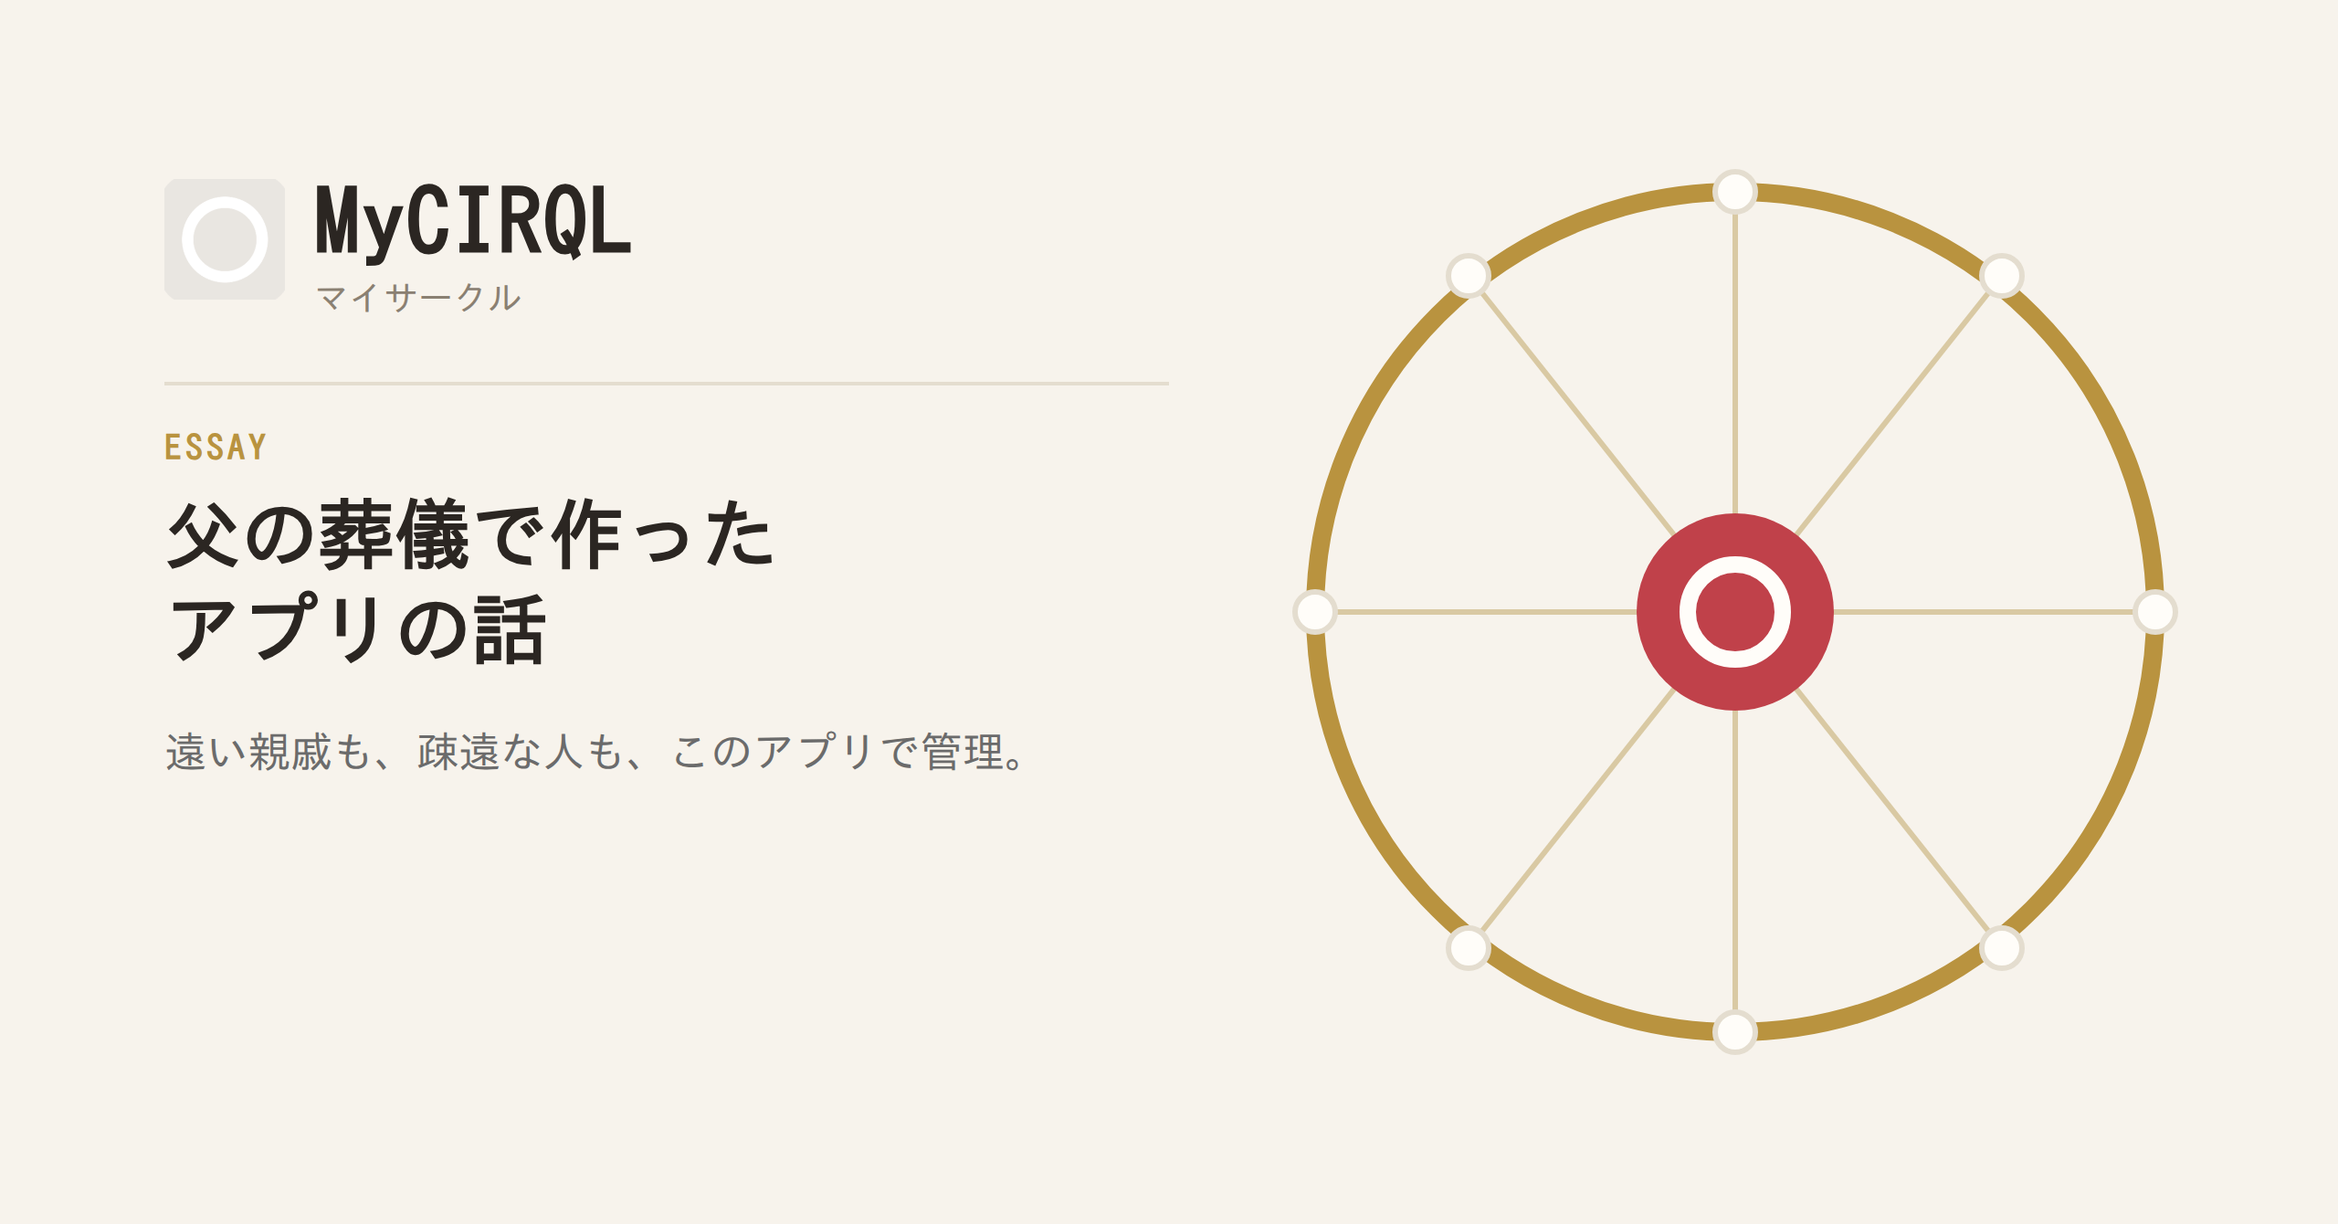
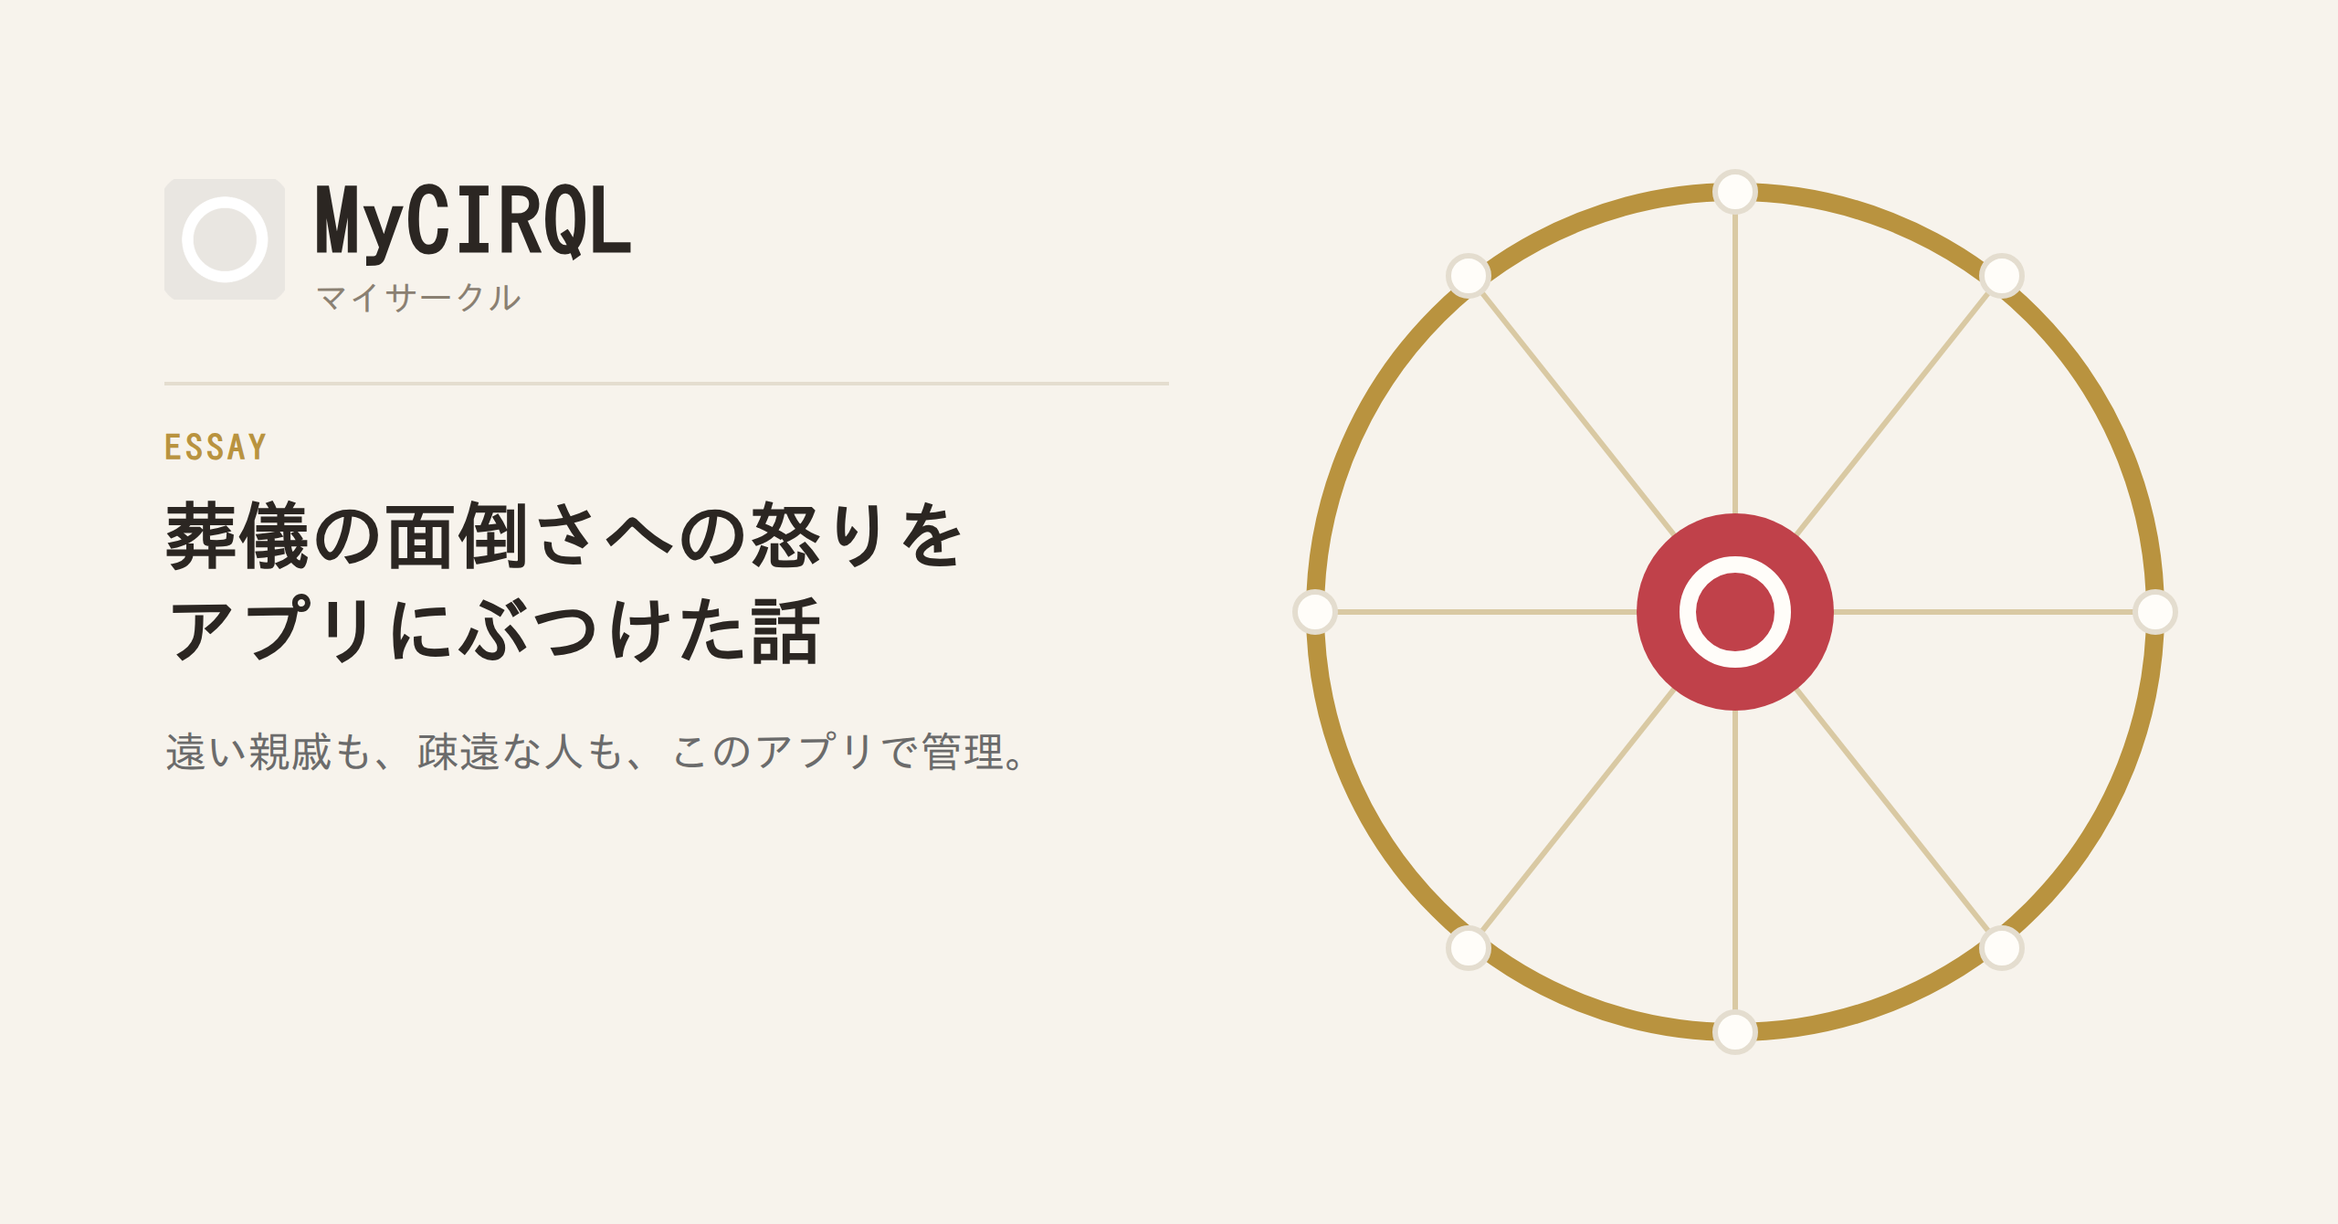
noteアイキャッチ画像のタイトルテキストを新しいタイトルに合わせて更新

Changed region(s): [[0.0625, 0.3978, 0.4062, 0.5507]]

diff --git a/note/02_本文ドラフト.md b/note/02_本文ドラフト.md
@@ -9,7 +9,7 @@
 
 ## タイトル
 
-顔は知られているのに、私は誰なのか分からなかった。父の葬儀で作ったアプリの話
+葬儀の面倒さからくる怒りをアプリ開発にぶつけてみました。
 
 ---
 
@@ -17,62 +17,45 @@
 
 去年、父が亡くなりました。80歳になる少し手前でした。
 
-葬儀には、父のいとこや兄弟が来てくれました。年代が年代なので、当然のことです。
-私は父にそっくりらしく、誰が見ても「この人は息子だ」とわかるようです。
-実際、来てくれた方々にとって、私が誰なのかは一目瞭然だったと思います。
+葬儀は、悲しいです。それはそう。でも同時に、地味にイライラすることの連続でもありました。今日はその怒りを、開発したアプリにぶつけた話をします。
 
-でも、こちらからは違いました。
-**目の前にいるこの人が、いったい誰なのか。私にはわかりませんでした。**
+父のいとこや兄弟が、たくさん来てくれました。年代が年代なので当然です。私は父にそっくりらしく、誰が見ても「ああ、息子だな」とわかるらしいんです。向こうは私を一瞬で認識する。こっちは誰が誰だか、1ミリもわかりません。
 
-親族なのか、友人なのか。親族だとして、いとこなのか、もっと遠い人なのか。
-どういう関係の人なのか、見当がつかないまま挨拶をするので、
-当たり障りのない会話にしかなりません。
+**この非対称、地味に腹が立ちませんか。**
+
+親族なのか、友人なのか。親族だとして、いとこなのか、もっと遠い人なのか。全員「モブキャラ」に見える状態のまま、当たり障りのない愛想笑いを続けるしかありませんでした。
 
 ![図1：「わからない」の4分類](img/fig1.png)
 *（note にアップロード：`note/img/fig1.png`）*
 
 ---
 
-## 「どこどこのおばちゃん」問題
+## 「どこどこのおばちゃん」、本名は？
 
-田舎あるあるだと思うのですが、うちの親戚には**地域名で呼ばれている人**が結構いました。
+田舎あるあるで、うちの親戚には**地域名で呼ばれている人**が普通にいました。「横浜のおばちゃん」「どこどこのおじちゃん」。おい、本名は。「林田兄ちゃん」みたいに苗字が付いていればまだ照合できるんですが、地域名＋続柄だけで通っている人になると、もう手がかりがゼロです。
 
-「横浜のおばちゃん」「どこどこのおじちゃん」。
-「林田兄ちゃん」のように苗字がついていればまだ照合できるのですが、
-地域名＋続柄だけで通っている人になると、もう手がかりがありません。
-
-一段落したあとに、いとこの中でも親しい人間と話していて気づいたのが、
-自分がわからなかった「わからなさ」には、実は**4種類ある**ということでした。
+一段落したあとに、いとこの中でも親しい人間とこの怒りを分かち合っていたら、自分がわからなかった「わからなさ」には実は**4種類ある**ことに気づきました。
 
 1. そもそも名前を知らない
 2. 顔は知っているが、名前を知らない
 3. 名前は知っているが、顔と一致しない
 4. 名前も顔も知っているが、**どういう血縁関係かわからない**
 
-連絡先アプリのメモ欄に手入力すれば、書けなくはありません。
-でも、続柄や「誰の何なのか」を一人ひとり書き起こしていくのは、正直かなり面倒です。
-書く場所がないのではなく、書くのが面倒だから、結局書かないままになるんだと思います。
+連絡先アプリのメモ欄に手入力すれば、書けなくはありません。でも、続柄や「誰の何なのか」を一人ひとり書き起こしていくのは、正直かなり面倒です。書く場所がないのではなく、書くのが面倒だから、結局書かないままになるんだと思います。
 
 ---
 
-## 香典返しのリストで、完全に詰まった
+## とどめは、香典返しの住所リスト
 
-葬儀が終わってひと段落したころ、**香典返しの住所リスト**を葬儀屋に渡す必要が出てきます。
-香典をいただいた以上、当然お返しをしないといけません。
+葬儀が終わってひと段落したころ、**香典返しの住所リスト**を葬儀屋に渡せと言われます。香典をいただいた以上、お返しをするのは当然です。正論です。正論なんですが。
 
-ここで、さっきの「わからなさ」が全部そのまま返ってきました。
-名前が出てこない人、顔と名前が一致しない人、血縁関係がわからない人。
-そのままではリストが作れません。
+さっきの「わからなさ」が、全部ここに集約して襲ってきました。名前が出てこない人、顔と名前が一致しない人、血縁関係がわからない人。そのままではリストなんて作れません。
 
-結局そのときは、いとこの中でも親しい人間と一緒に、**手書きで家系図を作って整理**しました。
-一段落つくころには、なんとか間に合わせることができました。
+このときの気持ちを正直に言うと、**悲しみより先に「なんでこんな仕組みになってるんだ」という怒りのほうが勝っていました。**結局そのときは、いとこの中でも親しい人間と一緒に、手書きで家系図を作って何とか間に合わせました。
 
-でも、これは一度きりでは終わらない話です。
-また誰かの葬儀があれば、同じことが起きます。
-四十九日、一周忌、三回忌と、法事はこの先も続きます。
-**その都度、記憶とみんなの手書きに頼るのは、さすがに無理があるな**と思いました。
+でも、これで終わる話じゃありません。四十九日、一周忌、三回忌と、法事はこの先も続きます。その都度この怒りを再演するのは、さすがに勘弁してほしい。
 
-これが、このアプリを作ろうと思ったきっかけです。
+だから、アプリにして解決することにしました。
 
 ---
 

diff --git a/note/03_下書き用_コピペ本文.md b/note/03_下書き用_コピペ本文.md
@@ -1,58 +1,41 @@
-顔は知られているのに、私は誰なのか分からなかった。父の葬儀で作ったアプリの話
+葬儀の面倒さからくる怒りをアプリ開発にぶつけてみました。
 
 去年、父が亡くなりました。80歳になる少し手前でした。
 
-葬儀には、父のいとこや兄弟が来てくれました。年代が年代なので、当然のことです。
-私は父にそっくりらしく、誰が見ても「この人は息子だ」とわかるようです。
-実際、来てくれた方々にとって、私が誰なのかは一目瞭然だったと思います。
+葬儀は、悲しいです。それはそう。でも同時に、地味にイライラすることの連続でもありました。今日はその怒りを、開発したアプリにぶつけた話をします。
 
-でも、こちらからは違いました。
-**目の前にいるこの人が、いったい誰なのか。私にはわかりませんでした。**
+父のいとこや兄弟が、たくさん来てくれました。年代が年代なので当然です。私は父にそっくりらしく、誰が見ても「ああ、息子だな」とわかるらしいんです。向こうは私を一瞬で認識する。こっちは誰が誰だか、1ミリもわかりません。
 
-親族なのか、友人なのか。親族だとして、いとこなのか、もっと遠い人なのか。
-どういう関係の人なのか、見当がつかないまま挨拶をするので、
-当たり障りのない会話にしかなりません。
+**この非対称、地味に腹が立ちませんか。**
+
+親族なのか、友人なのか。親族だとして、いとこなのか、もっと遠い人なのか。全員「モブキャラ」に見える状態のまま、当たり障りのない愛想笑いを続けるしかありませんでした。
 
 ▼［ここに fig1.png（「わからない」の4分類）を挿入］
 
-## 「どこどこのおばちゃん」問題
+## 「どこどこのおばちゃん」、本名は？
 
-田舎あるあるだと思うのですが、うちの親戚には**地域名で呼ばれている人**が結構いました。
+田舎あるあるで、うちの親戚には**地域名で呼ばれている人**が普通にいました。「横浜のおばちゃん」「どこどこのおじちゃん」。おい、本名は。「林田兄ちゃん」みたいに苗字が付いていればまだ照合できるんですが、地域名＋続柄だけで通っている人になると、もう手がかりがゼロです。
 
-「横浜のおばちゃん」「どこどこのおじちゃん」。
-「林田兄ちゃん」のように苗字がついていればまだ照合できるのですが、
-地域名＋続柄だけで通っている人になると、もう手がかりがありません。
-
-一段落したあとに、いとこの中でも親しい人間と話していて気づいたのが、
-自分がわからなかった「わからなさ」には、実は**4種類ある**ということでした。
+一段落したあとに、いとこの中でも親しい人間とこの怒りを分かち合っていたら、自分がわからなかった「わからなさ」には実は**4種類ある**ことに気づきました。
 
 1. そもそも名前を知らない
 2. 顔は知っているが、名前を知らない
 3. 名前は知っているが、顔と一致しない
 4. 名前も顔も知っているが、**どういう血縁関係かわからない**
 
-連絡先アプリのメモ欄に手入力すれば、書けなくはありません。
-でも、続柄や「誰の何なのか」を一人ひとり書き起こしていくのは、正直かなり面倒です。
-書く場所がないのではなく、書くのが面倒だから、結局書かないままになるんだと思います。
+連絡先アプリのメモ欄に手入力すれば、書けなくはありません。でも、続柄や「誰の何なのか」を一人ひとり書き起こしていくのは、正直かなり面倒です。書く場所がないのではなく、書くのが面倒だから、結局書かないままになるんだと思います。
 
-## 香典返しのリストで、完全に詰まった
+## とどめは、香典返しの住所リスト
 
-葬儀が終わってひと段落したころ、**香典返しの住所リスト**を葬儀屋に渡す必要が出てきます。
-香典をいただいた以上、当然お返しをしないといけません。
+葬儀が終わってひと段落したころ、**香典返しの住所リスト**を葬儀屋に渡せと言われます。香典をいただいた以上、お返しをするのは当然です。正論です。正論なんですが。
 
-ここで、さっきの「わからなさ」が全部そのまま返ってきました。
-名前が出てこない人、顔と名前が一致しない人、血縁関係がわからない人。
-そのままではリストが作れません。
+さっきの「わからなさ」が、全部ここに集約して襲ってきました。名前が出てこない人、顔と名前が一致しない人、血縁関係がわからない人。そのままではリストなんて作れません。
 
-結局そのときは、いとこの中でも親しい人間と一緒に、**手書きで家系図を作って整理**しました。
-一段落つくころには、なんとか間に合わせることができました。
+このときの気持ちを正直に言うと、**悲しみより先に「なんでこんな仕組みになってるんだ」という怒りのほうが勝っていました。**結局そのときは、いとこの中でも親しい人間と一緒に、手書きで家系図を作って何とか間に合わせました。
 
-でも、これは一度きりでは終わらない話です。
-また誰かの葬儀があれば、同じことが起きます。
-四十九日、一周忌、三回忌と、法事はこの先も続きます。
-**その都度、記憶とみんなの手書きに頼るのは、さすがに無理があるな**と思いました。
+でも、これで終わる話じゃありません。四十九日、一周忌、三回忌と、法事はこの先も続きます。その都度この怒りを再演するのは、さすがに勘弁してほしい。
 
-これが、このアプリを作ろうと思ったきっかけです。
+だから、アプリにして解決することにしました。
 
 ## で、どんなアプリなの？
 

diff --git a/note/00_取材メモ.md b/note/00_取材メモ.md
@@ -129,3 +129,21 @@
 - 誤：「連絡先アプリには、この4つのどれも解決する場所がありません」
 - 正：メモ欄に手入力すれば書けなくはない。実情は「場所がない」のではなく「手入力するのが面倒だから、結局書かれないまま終わる」
 - 図1のキャプションも「書く場所がない」→「メモ欄に書けなくはないが、手入力するのは面倒」に修正
+
+## トーン変更：「悲しい話」→「面倒さへの怒りをアプリにぶつけた話」
+
+- note に下書きを貼ったところ、タイトルを本人が
+  「葬儀の面倒さからくる怒りをアプリ開発にぶつけてみました。」に変更
+- 「多少ふざけてもいい」という指示で、記事全体のトーンをこのタイトルに合わせて調整
+- 変更点：
+  - タイトルを上記に採用
+  - 冒頭を「悲しいけれど、同時に地味にイライラすることの連続でもあった」という導入に変更
+  - 顔がそっくりなのに相手がわからない「非対称」を、怒りのユーモアとして書く
+  - 「どこどこのおばちゃん」問題も「おい、本名は」と突っ込む調子に
+  - 香典返しリストの段落を「とどめは〜」という見出しに変え、
+    「悲しみより先に怒りが勝っていた」と明言し、「だから、アプリにして解決することにした」で締める
+  - **重要**：怒りの矛先は父の死そのものではなく、あくまで葬儀まわりの面倒な仕組み・慣習に向けている
+    （弔いの気持ちを茶化さないよう、ここだけは一貫させる）
+  - プライバシーや使ってほしい場面などの後半セクションは、トーンはそのまま維持（前半で笑わせて、後半は誠実に、の構成）
+  - アイキャッチ画像（`img/title.png`）の見出しテキストも
+    「父の葬儀で作ったアプリの話」→「葬儀の面倒さへの怒りをアプリにぶつけた話」に合わせて変更
